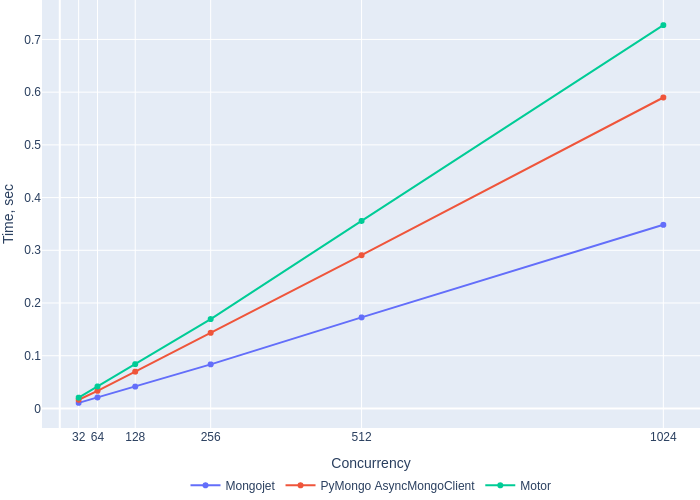
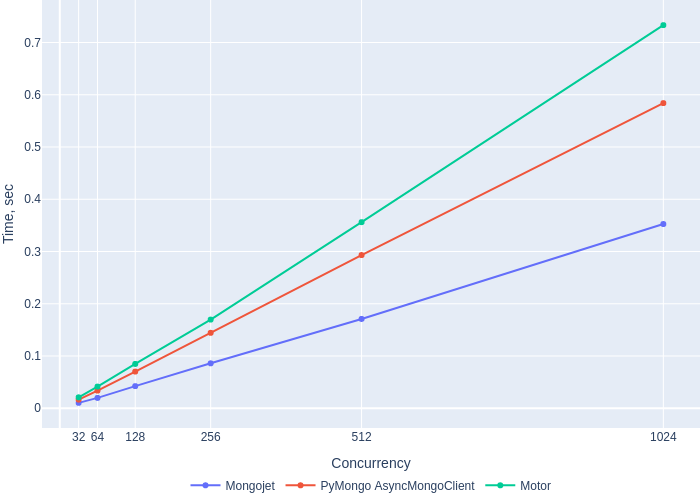
Update mongodb to 3.3, update bson to 3.0

diff --git a/src/conv.rs b/src/conv.rs
@@ -4,7 +4,7 @@ macro_rules! from_py_object {
         impl<'py> FromPyObject<'py> for $t {
             fn extract_bound(ob: &Bound<'py, PyAny>) -> PyResult<Self> {
                 let bytes = ob.extract::<&[u8]>()?;
-                let result = bson::from_slice(bytes)
+                let result = bson::deserialize_from_slice(bytes)
                     .map_err(|e| PyValueError::new_err(e.to_string()))?;
                 Ok(result)
             }
@@ -21,7 +21,7 @@ macro_rules! into_py_object {
             type Error = std::convert::Infallible;
         
             fn into_pyobject(self, py: Python<'py>) -> Result<Self::Output, Self::Error> {
-                let buf = bson::to_vec(&self)
+                let buf = bson::serialize_to_vec(&self)
                     .expect(format!("Couldn't serialize value to bson: {:?}", self).as_str());
                 Ok(PyBytes::new(py, &buf))
             }

diff --git a/benchmarks/test_bench.py b/benchmarks/test_bench.py
@@ -143,3 +143,5 @@ def test_insert_pymongo(aio_benchmark, pymongo_update_collection, concurrency):
 
 
 # python -m pytest ./benchmarks -m find -v -s
+# python -m pytest ./benchmarks -m insert -v -s
+# python -m pytest ./benchmarks -m cursor -v -s

diff --git a/python/mongojet/_collection.py b/python/mongojet/_collection.py
@@ -1,3 +1,4 @@
+# pylint:disable=redefined-builtin
 from __future__ import annotations
 
 from collections.abc import Mapping, Sequence
